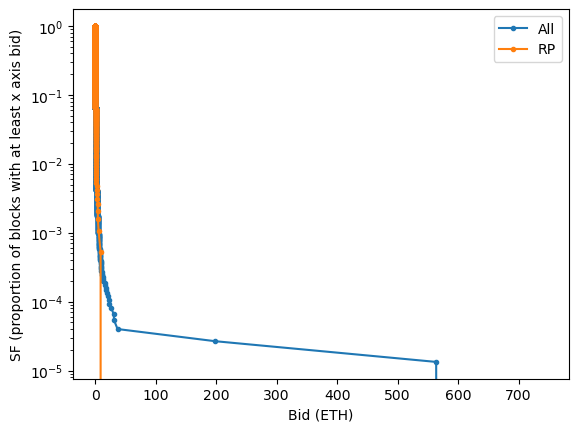
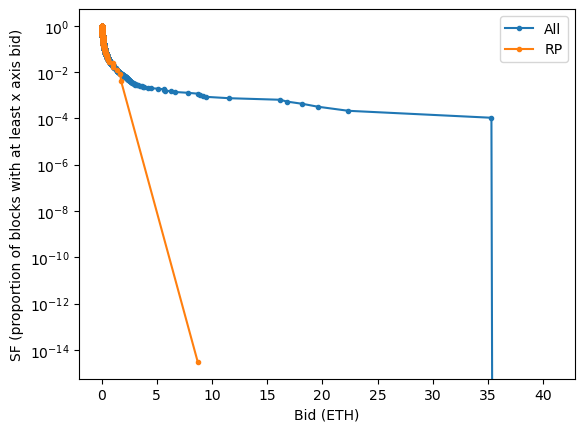
Convert to ETH early; patch bloxroute missing data

diff --git a/analysis.py b/analysis.py
@@ -5,6 +5,9 @@ from pathlib import Path
 import matplotlib.pyplot as plt
 import numpy as np
 import pandas as pd
+
+# max bid isn't always used (eg, bid gets in too late); 90% is a rough empirical correction
+BID2REWARD = 0.9
 """
 ===QUESTIONS TO ADDRESS FOR BOUNTY==
 Detail level
@@ -29,8 +32,11 @@ High level
 """
 
 
-def wei2eth(wei):
-    return wei / 1e18
+def wei2eth(wei_str):
+    try:
+        return int(wei_str) / 1e18
+    except ValueError:
+        return np.nan
 
 
 def slot2timestamp(slot):
@@ -81,14 +87,27 @@ def rethdict2apy(d):
     return 100 * ((d['end_eth'] / d['end_reth']) - (d['start_eth'] / d['start_reth'])) / d['years']
 
 
+def fix_bloxroute_missing_bids(df):
+    ct = 0
+    for ind, row in df.iterrows():
+        missing_bid = np.isnan(row['max_bid']) and ~np.isnan(row['mev_reward'])
+        missing_winning_bid = (~np.isnan(row['max_bid']) and ~np.isnan(row['mev_reward'])
+                               and row['max_bid'] < row['mev_reward'])
+        if missing_bid or missing_winning_bid:
+            assert row['mev_reward_relay'] in ('bloXroute Max Profit', 'bloXroute Regulated')
+            ct += 1
+            df.loc[ind, 'max_bid'] = row['mev_reward'] / BID2REWARD
+    print(f'Filled in proxy bloxroute max_bids for {ct} slots')
+    return df
+
+
 def recipient_losses_mevboost(df, total_weeks, rethdict):
     df_rp_mevboost = df[~df['is_vanilla'] & df['is_rocketpool']].copy()
     num_right = len(df_rp_mevboost[df_rp_mevboost['correct_fee_recipient'] == True])
     num_wrong = len(df_rp_mevboost[df_rp_mevboost['correct_fee_recipient'] == False])
     num = len(df_rp_mevboost)
     assert num == num_wrong + num_right
-    lost_eth = wei2eth(
-        df_rp_mevboost[df_rp_mevboost['correct_fee_recipient'] == False]['mev_reward'])
+    lost_eth = df_rp_mevboost[df_rp_mevboost['correct_fee_recipient'] == False]['mev_reward']
     lost_eth.to_csv('./results/recipient_losses.csv')
 
     nolossd = rethdict.copy()
@@ -113,10 +132,10 @@ def recipient_losses_vanilla(df, total_weeks, rethdict):
     num = len(df_rp_vanilla)
     assert num == num_wrong + num_right
     df_rp_vanilla['potential_loss'] = (
-        df_rp_vanilla['max_bid'].fillna(0) * .9 + df_rp_vanilla['priority_fees'].fillna(0))
+        df_rp_vanilla['max_bid'].fillna(0) * BID2REWARD + df_rp_vanilla['priority_fees'].fillna(0))
+    # NOTE: this assumes priority fees are only provided when max_bid is missing
 
-    lost_eth = wei2eth(
-        df_rp_vanilla[df_rp_vanilla['correct_fee_recipient'] == False]['potential_loss'])
+    lost_eth = df_rp_vanilla[df_rp_vanilla['correct_fee_recipient'] == False]['potential_loss']
     lost_eth.to_csv('./results/recipient_losses_vanilla.csv')
 
     nolossd = rethdict.copy()
@@ -129,19 +148,13 @@ def recipient_losses_vanilla(df, total_weeks, rethdict):
     print(f'~{sum(lost_eth)/total_weeks:0.3f} ETH lost per week')
     print(f' APY was ~{rethdict2apy(rethdict):0.2f}% '
           f'when it should have been {rethdict2apy(nolossd):0.2f}%')
-    print("NB: We take a stab at vanilla losses using 0.9*max_bid or sum of priority_fees, but "
+    print("NB: We take a stab at vanilla losses using 90% of max_bid or sum of priority_fees, but "
           "it's possible for vanilla blocks without max_bid to hide offchain fees")
     issue_nodes = df_rp_vanilla[df_rp_vanilla['correct_fee_recipient'] == False]['node_address']
-    return Counter(issue_nodes)
+    return Counter(issue_nodes), sum(lost_eth)
 
 
-def mynanmean(win):
-    res = np.nanmean(win)
-    print(f'{win} --> {res}')
-    return res
-
-
-def vanilla_losses(df, total_weeks, rethdict):
+def vanilla_losses(df, total_weeks, rethdict, vanilla_bad_recipient_eth):
     df_temp = df.copy()
     df_temp['proxy_max_bid'] = df_temp['max_bid'].rolling(7, center=True, min_periods=1).mean()
     df_rp_vanilla = df_temp[df_temp['is_vanilla'] & df_temp['is_rocketpool']]
@@ -149,12 +162,11 @@ def vanilla_losses(df, total_weeks, rethdict):
     unknown_vanilla = df_rp_vanilla[df_rp_vanilla['max_bid'].isna()]
     assert not unknown_vanilla['priority_fees'].isna().any()
     n_unknown = len(unknown_vanilla)
-    # max bid isn't always used (eg, bid gets in too late); 90% is a rough empirical correction
-    lost_eth = wei2eth(df_rp_vanilla[~df_rp_vanilla['max_bid'].isna()]['max_bid']) * .9
+    lost_eth = df_rp_vanilla[~df_rp_vanilla['max_bid'].isna()]['max_bid'] * BID2REWARD
     assert n == len(lost_eth) + n_unknown
     lost_eth.to_csv('./results/vanilla_losses.csv')
     estimated_lost_eth = lost_eth.mean() * n_unknown
-    vanilla_received_eth = wei2eth(df_rp_vanilla['priority_fees'].sum())
+    vanilla_received_eth = df_rp_vanilla['priority_fees'].sum() - vanilla_bad_recipient_eth
     total_loss = sum(lost_eth) + estimated_lost_eth - vanilla_received_eth
 
     nolossd = rethdict.copy()
@@ -172,7 +184,7 @@ def vanilla_losses(df, total_weeks, rethdict):
 
     proxy_losses = df_rp_vanilla[df_rp_vanilla['max_bid'].isna()]['proxy_max_bid']
     assert not proxy_losses.isna().values.any()  # make sure we have values for all
-    alt_estimated_lost_eth = wei2eth(sum(proxy_losses))
+    alt_estimated_lost_eth = sum(proxy_losses)
     print(f"\nSanity checking 2 ways of estimating the unknown loss: {estimated_lost_eth:0.3f} vs "
           f"{alt_estimated_lost_eth:0.3f}")
     print(" if second method is much higher, that means we're seeing vanilla block more often than"
@@ -194,13 +206,12 @@ def get_sf(ls):
 
 
 def distribution_plots(df):
-    df['max_bid_eth'] = [0 if np.isnan(x) else wei2eth(int(x)) for x in df['max_bid']]
     # note - in these plots, we only assess when there's a max bid; a validator that never
     # registered with relays (ie, always vanilla) would not show up in them at all
-    unplotted_df = df[(df['max_bid_eth'] == 0) & df['is_rocketpool']]
+    unplotted_df = df[df['max_bid'].isna() & df['is_rocketpool']]
     unplotted_df.to_csv('./results/unplotted_rp_slots.csv')
 
-    df = df[df['max_bid_eth'] != 0]
+    df = df[~df['max_bid'].isna()]
     df_rp = df[df['is_rocketpool']]
     df_rp_vanilla = df_rp[df_rp['is_vanilla']]
     df_rp_mev = df_rp[~df_rp['is_vanilla'] & df_rp['correct_fee_recipient'] == True]
@@ -208,12 +219,12 @@ def distribution_plots(df):
     df_nonrp = df[df['is_rocketpool'] == False]
     df_nonrp_vanilla = df_nonrp[df_nonrp['is_vanilla']]
 
-    all_x, all_sf = get_sf(df['max_bid_eth'])
-    rp_x, rp_sf = get_sf(df_rp['max_bid_eth'])
-    rp_vanilla_x, rp_vanilla_sf = get_sf(df_rp_vanilla['max_bid_eth'])
-    rp_mev_x, rp_mev_sf = get_sf(df_rp_mev['max_bid_eth'])
-    df_rp_bad_recipient_x, df_rp_bad_recipient_sf = get_sf(df_rp_bad_recipient['max_bid_eth'])
-    nonrp_vanilla_x, nonrp_vanilla_sf = get_sf(df_nonrp_vanilla['max_bid_eth'])
+    all_x, all_sf = get_sf(df['max_bid'])
+    rp_x, rp_sf = get_sf(df_rp['max_bid'])
+    rp_vanilla_x, rp_vanilla_sf = get_sf(df_rp_vanilla['max_bid'])
+    rp_mev_x, rp_mev_sf = get_sf(df_rp_mev['max_bid'])
+    df_rp_bad_recipient_x, df_rp_bad_recipient_sf = get_sf(df_rp_bad_recipient['max_bid'])
+    nonrp_vanilla_x, nonrp_vanilla_sf = get_sf(df_nonrp_vanilla['max_bid'])
 
     # 5a/5b Global vs RP -- ideally these look extremely similar
     fig, ax = plt.subplots(1)
@@ -229,9 +240,9 @@ def distribution_plots(df):
     # - If vanilla has higher probability for high bids, that is a sign of likely theft
     fig, ax = plt.subplots(1)
     ax.semilogy(rp_mev_x, rp_mev_sf, marker='.', label='RP - correct MEV boost')
+    ax.semilogy(rp_vanilla_x, rp_vanilla_sf, marker='.', label='RP - vanilla')
     ax.semilogy(
         df_rp_bad_recipient_x, df_rp_bad_recipient_sf, marker='.', label='RP - wrong recipient')
-    ax.semilogy(rp_vanilla_x, rp_vanilla_sf, marker='.', label='RP - vanilla')
     ax.legend()
     ax.set_xlabel('Bid (ETH)')
     ax.set_ylabel('SF (proportion of blocks with at least x axis bid)')
@@ -258,7 +269,14 @@ def main():
     for p in sorted(Path(r'./data').glob('*.csv')):
         if start_slot == 0:
             start_slot = int(p.name.split('-')[1])
-        df_ls.append(pd.read_csv(p))
+        df_ls.append(
+            pd.read_csv(
+                p,
+                converters={
+                    'max_bid': wei2eth,
+                    'mev_reward': wei2eth,
+                    'priority_fees': wei2eth,
+                }))
     end_slot = int(p.name.split('-')[3].split('.')[0])
     assert end_slot != 0  # maybe hits if there's no data
     total_weeks = (end_slot - start_slot) * 12 / (60 * 60 * 24 * 7)
@@ -270,13 +288,15 @@ def main():
     df['is_vanilla'] = df['mev_reward'].isna()
     df.set_index('slot', inplace=True)
 
-    print(f'Analyzing {total_weeks:0.1f} weeks of data')
+    print(f'Analyzing {total_weeks:0.1f} weeks of data ({end_slot - start_slot} slots)')
+    df = fix_bloxroute_missing_bids(df.copy())
+
     c_rcpt_mev = recipient_losses_mevboost(df.copy(), total_weeks, rethdict.copy())
-    c_rcpt_van = recipient_losses_vanilla(df.copy(), total_weeks, rethdict.copy())
-    c_van = vanilla_losses(df.copy(), total_weeks, rethdict.copy())
+    c_rcpt_van, van_bad_rcpt_eth = recipient_losses_vanilla(df.copy(), total_weeks, rethdict.copy())
+    c_van = vanilla_losses(df.copy(), total_weeks, rethdict.copy(), van_bad_rcpt_eth)
     c_unplotted = distribution_plots(df.copy())
 
-    print('=== Issue counts by node address ===')
+    print('\n=== RP issue counts by node address ===')
     print(f'🚩Wrong recipient used with MEV-boost: {c_rcpt_mev}')
     print(f'🚩Wrong recipient used with vanilla: {c_rcpt_van}')
     print(f'⚠ No max bid: {c_unplotted}')  # not registered w/relays? hard to differentiate theft
